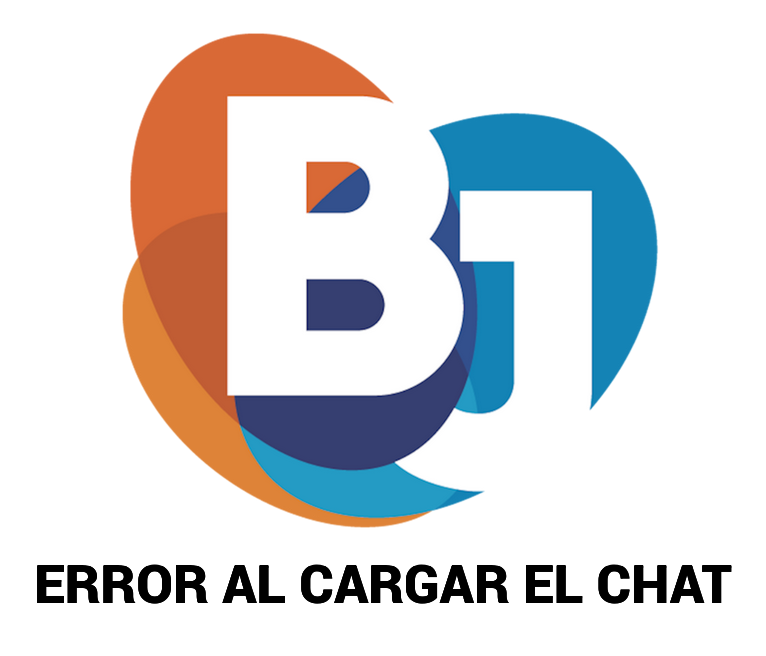
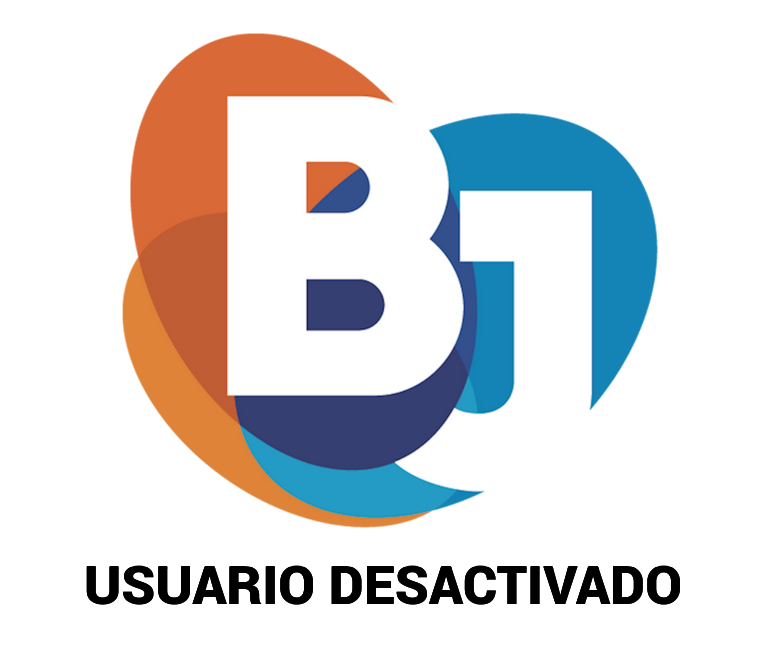
correccion en mensaje para usuario desactivado

Changed region(s): [[0.03, 0.8537, 0.9608, 0.9451]]

diff --git a/src/pages/ChatPlus/index.js b/src/pages/ChatPlus/index.js
@@ -711,7 +711,7 @@ class Chat extends Component {
                                   className="row-9"
                                   style={{ fontSize: 13, paddingRight: 0 }}
                                 >
-                                  El usuario <b>{chats[index].user_name} </b> se encuentra <b>INACTIVO</b>
+                                  El usuario <b>{chats[index].user_name} </b> se encuentra <b>DESACTIVADO</b>
                                 </div>
                                 <br />
                                 <div
